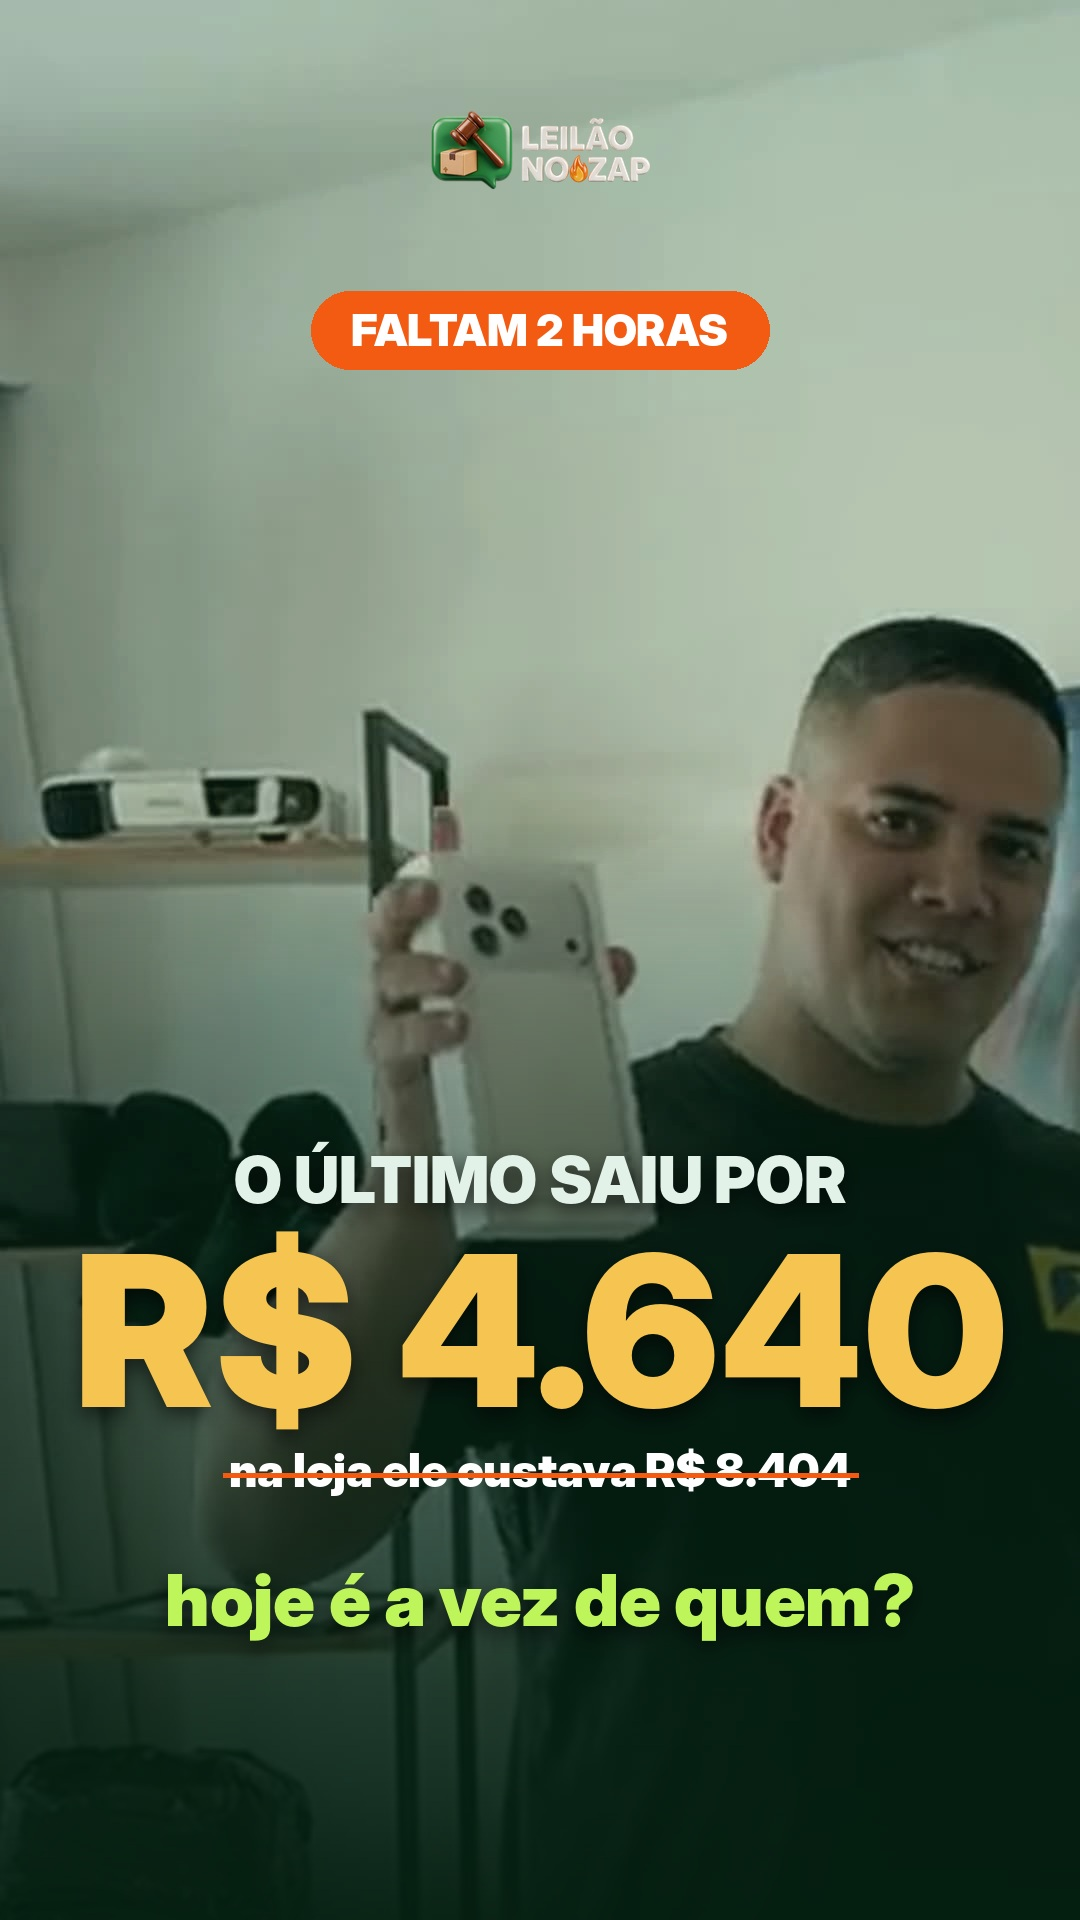
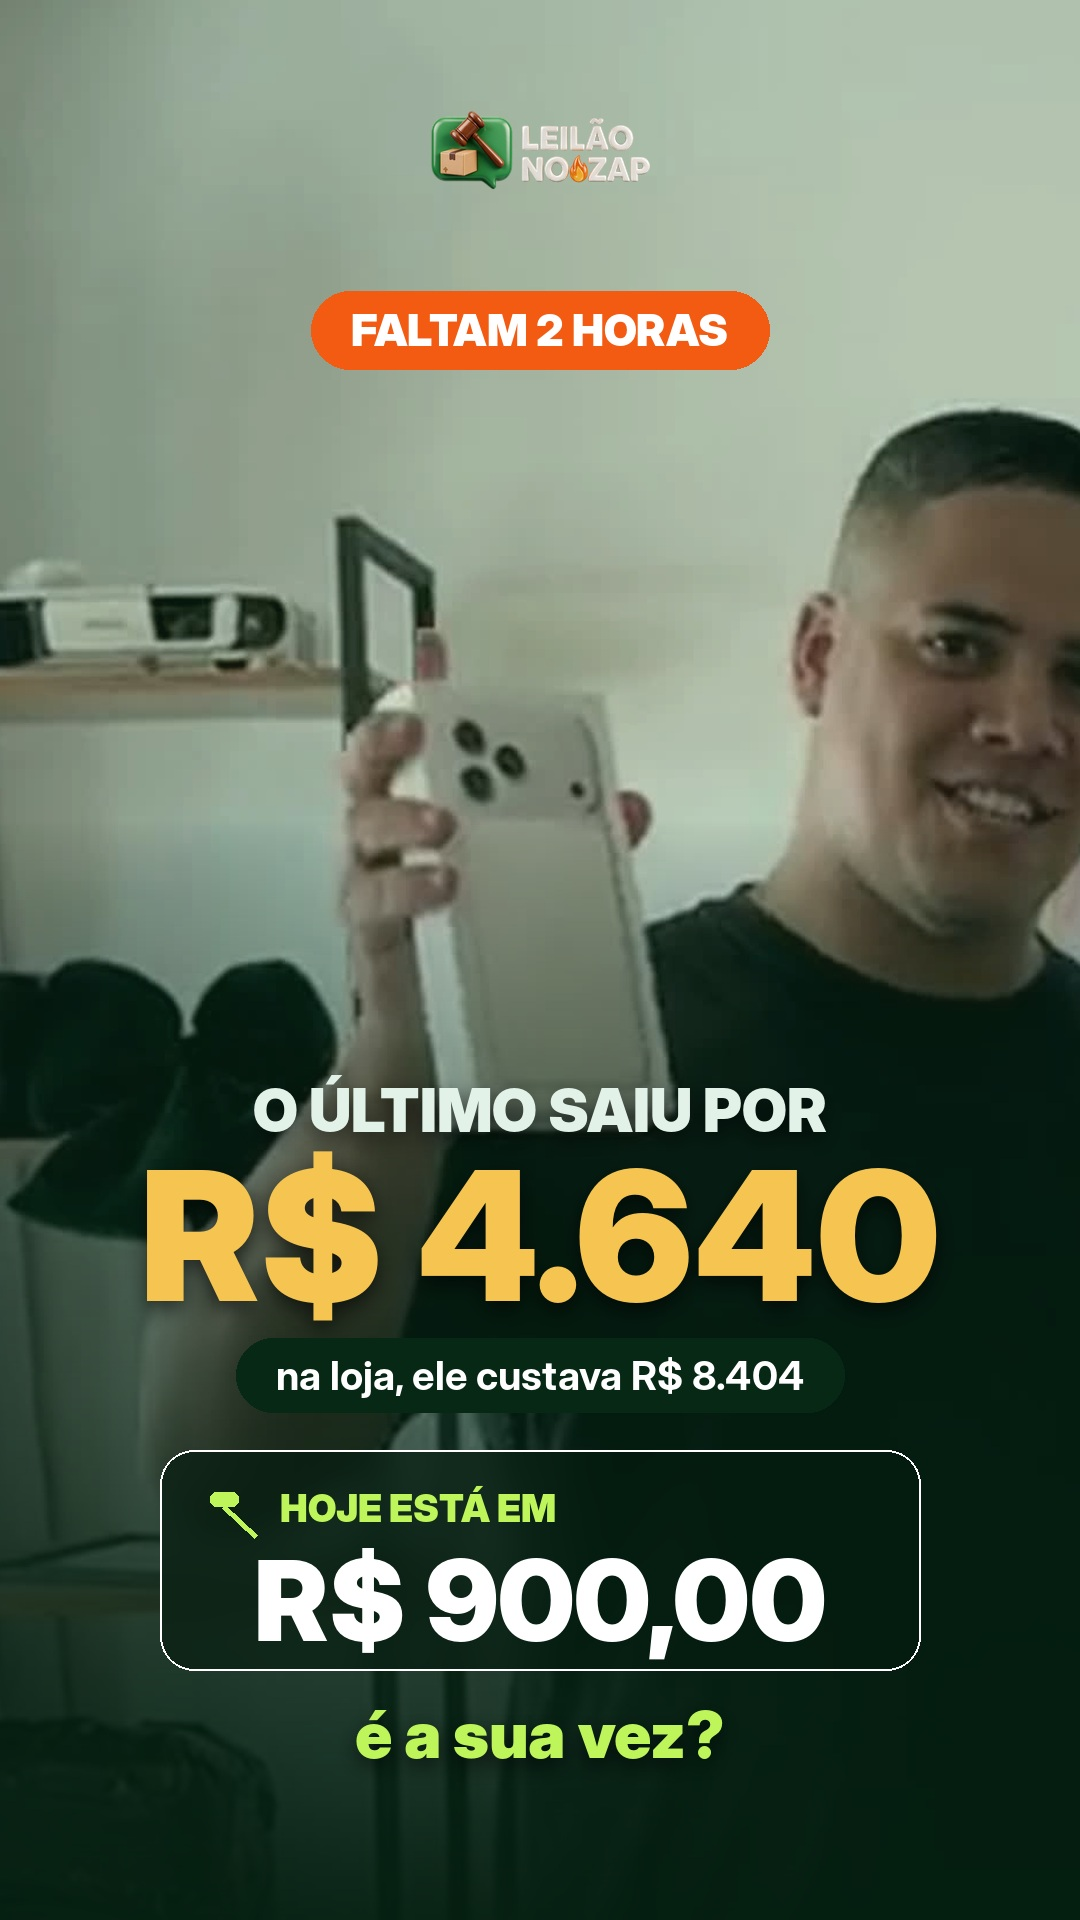
Arte 18h iPhone: lance atual R$ 900, caixa do iPhone livre, sem texto riscado
Claude-Session: https://claude.ai/code/session_01JihU9VfVTYTrMqQpApFEjH

diff --git a/marketing/semana-2026-10-28/fonte/campanha_iphone.py b/marketing/semana-2026-10-28/fonte/campanha_iphone.py
@@ -153,17 +153,18 @@ def s6():
 
 # 7 · 18h — O ÚLTIMO SAIU POR R$ 4.640 (a única com a foto real do arremate), em duotone verde
 def s7():
-    f = Image.open(f'{AQ}/iphone-ultimo-arremate.jpg').convert('L'); e = max(W / f.width, H / f.height); f = f.resize((round(f.width * e), round(f.height * e)), Image.LANCZOS)
-    x = (f.width - W) // 2; f = f.crop((x, 0, x + W, H))
-    cor = Image.open(f'{AQ}/iphone-ultimo-arremate.jpg').convert('RGB'); cor = cor.resize((round(cor.width * e), round(cor.height * e)), Image.LANCZOS).crop((x, 0, x + W, H))
+    f = Image.open(f'{AQ}/iphone-ultimo-arremate.jpg').convert('L'); e = max(W / f.width, H / f.height) * 1.16; f = f.resize((round(f.width * e), round(f.height * e)), Image.LANCZOS)
+    x = (f.width - W) // 2; yy = min(f.height - H, 440)   # sobe a foto: a caixa do iPhone fica acima do texto
+    cor = Image.open(f'{AQ}/iphone-ultimo-arremate.jpg').convert('RGB'); cor = cor.resize((round(cor.width * e), round(cor.height * e)), Image.LANCZOS).crop((x, yy, x + W, yy + H))
     cor = ImageEnhance.Color(cor).enhance(0.75); cor = ImageEnhance.Brightness(cor).enhance(1.08)
     b = Image.blend(cor, Image.new('RGB', (W, H), (27, 122, 72)), 0.18).convert('RGBA'); g = Image.new('RGBA', b.size); gd = ImageDraw.Draw(g)
     for y in range(H): gd.line((0, y, W, y), fill=(4, 30, 16, int(245 * max(0, (y - 820) / 1100) ** .7)))
     b.alpha_composite(g); logo_(b)
     pil(b, W / 2, 330, 'FALTAM 2 HORAS', F('Black', 44), FOGO, BR)
-    T(b, (W / 2, 1180), 'O ÚLTIMO SAIU POR', F('Black', 64), MENTA); T(b, (W / 2, 1330), 'R$ 4.640', F('Black', 210), OURO)
-    riscar(b, (W / 2, 1470), 'na loja ele custava R$ 8.404', F('Black', 46), BR)
-    T(b, (W / 2, 1600), 'hoje é a vez de quem?', F('Black', 72), LIMA); sv(b, 'S07-18h-o-ultimo-saiu-por')
+    T(b, (W / 2, 1110), 'O ÚLTIMO SAIU POR', F('Black', 60), MENTA); T(b, (W / 2, 1235), 'R$ 4.640', F('Black', 180), OURO)
+    pil(b, W / 2, 1375, 'na loja, ele custava R$ 8.404', F('Bold', 40), (8, 40, 22, 235), BR)
+    lance_card(b, W / 2, 1450, w=760, rot='HOJE ESTÁ EM')
+    T(b, (W / 2, 1735), 'é a sua vez?', F('Black', 64), LIMA); sv(b, 'S07-18h-o-ultimo-saiu-por')
 
 # 8 · 19h — FALTA 1 HORA: Leiloeiro de relógio na mão + iPhone, raios dourados
 def s8():
